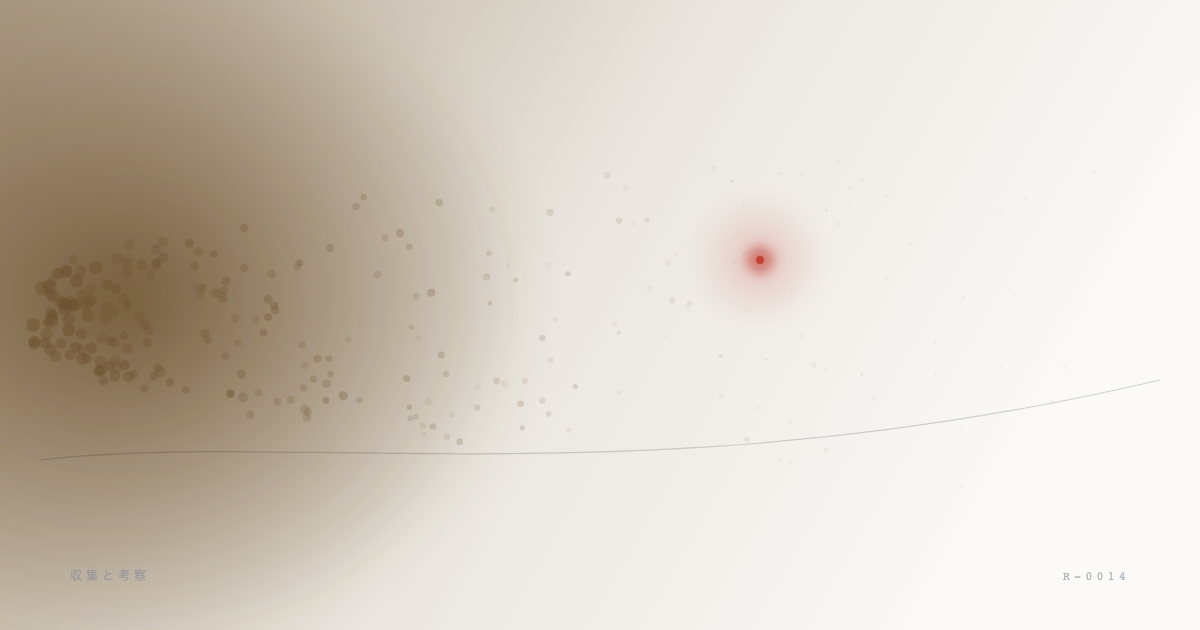
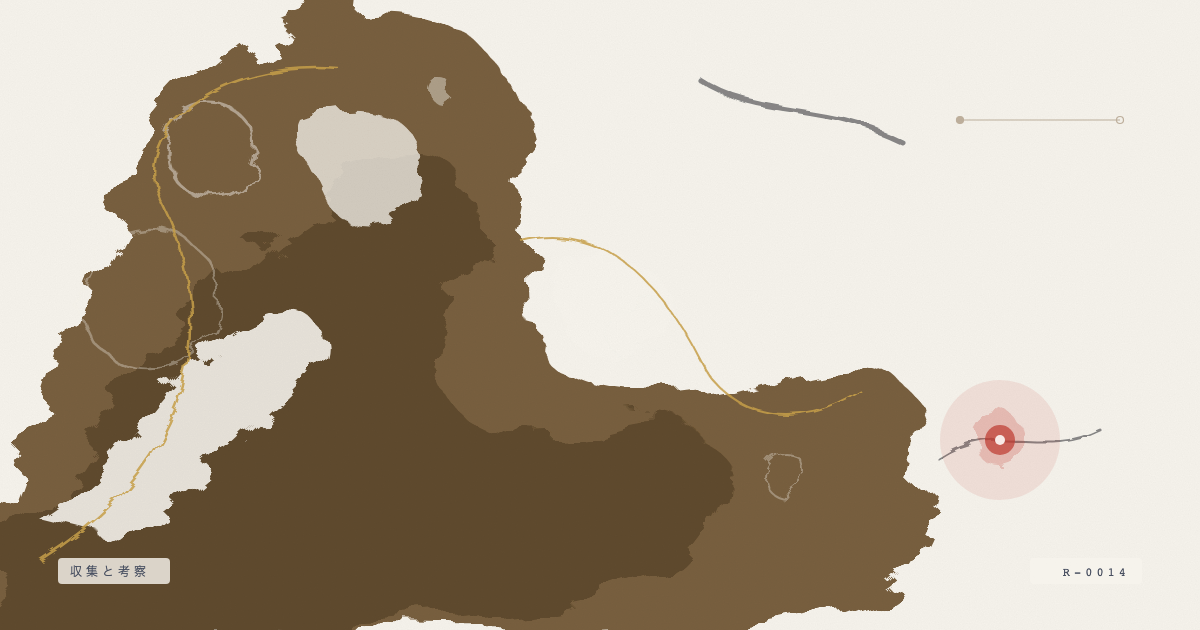
見出し画像をアクリルポアの質感に描き直し（自動生成のまま）

diff --git a/tools/og_image.py b/tools/og_image.py
@@ -2,15 +2,15 @@
 """
 記事の見出し画像
 
-写真ではなく、絵画的な抽象アートで記事のテーマを表す。
-密集した粒子の群れ（システム側の処理）が、左から右へ向かうにつれ
-散り、薄れていき、その先に小さな朱の光がひとつだけ灯っている
-（まだ渡されていない、決裁という一点）。図解ではなく、雰囲気で
-「AIの領域から、人間だけに委ねられた一点がある」ことを表す。
+写真ではなく、絵の具のマーブル（アクリルポア）のような抽象アートで
+記事のテーマを表す。濃淡の異なる色の流れが画面を覆い、白い抜け・
+気泡・金の脈が質感を作る。その中に、渡されていない決裁を表す
+小さな朱の光がひとつだけ灯る。静かな直線と円（テックの気配）を
+最小限だけ添える。タイトルの文字は入れない。
 
-タイトルの文字は入れない。pillar（構築記録／収集と考察）で
-色調（藍／焦茶）だけを切り替える。粒子の配置は固定シードの疑似乱数
-なので、同じ記事番号なら常に同じ絵になる。
+pillar（構築記録／収集と考察）によって色調だけを切り替える。
+構図そのものは全記事で共通（同じ様式の記録が積み重なっていく、
+という意図的な選択）。
 
 Playwrightで実際に描画してスクリーンショットし、1200x630のPNGにする。
 
@@ -20,75 +20,97 @@ Playwrightで実際に描画してスクリーンショットし、1200x630のPN
 import os, sys
 from playwright.sync_api import sync_playwright
 
-PILLAR_COLOR = {
-    "構築記録": "#2C4A6E",
-    "収集と考察": "#6E5330",
+# (メイン色, 濃色, テック線色) の3色セット
+PILLAR_PALETTE = {
+    "構築記録":   ("#2C4A6E", "#1A335A", "#4A6FA0"),
+    "収集と考察": ("#6E5330", "#4A3820", "#8A7050"),
 }
 
 TPL = """<!doctype html>
 <html><head><meta charset="utf-8"><style>
   *{{margin:0;padding:0}}
-  html,body{{width:1200px;height:630px;overflow:hidden;background:#FBFAF7}}
+  html,body{{width:1200px;height:630px;overflow:hidden;background:#F6F3EC}}
 </style></head>
 <body>
 <svg width="1200" height="630" viewBox="0 0 1200 630" xmlns="http://www.w3.org/2000/svg">
   <defs>
-    <filter id="soft" x="-50%" y="-50%" width="200%" height="200%">
-      <feGaussianBlur stdDeviation="18"/>
+    <filter id="marble" x="-30%" y="-30%" width="160%" height="160%">
+      <feTurbulence type="fractalNoise" baseFrequency="0.008 0.014" numOctaves="5" seed="{seed1}" result="n"/>
+      <feDisplacementMap in="SourceGraphic" in2="n" scale="90"/>
     </filter>
-    <filter id="soft2" x="-50%" y="-50%" width="200%" height="200%">
-      <feGaussianBlur stdDeviation="6"/>
+    <filter id="marble2" x="-30%" y="-30%" width="160%" height="160%">
+      <feTurbulence type="fractalNoise" baseFrequency="0.02 0.03" numOctaves="4" seed="{seed2}" result="n2"/>
+      <feDisplacementMap in="SourceGraphic" in2="n2" scale="34"/>
     </filter>
-    <radialGradient id="core" cx="50%" cy="50%" r="50%">
-      <stop offset="0%" stop-color="{color}" stop-opacity="0.9"/>
-      <stop offset="100%" stop-color="{color}" stop-opacity="0"/>
-    </radialGradient>
-    <linearGradient id="wash" x1="0" y1="0" x2="1" y2="0.3">
-      <stop offset="0%" stop-color="{color}" stop-opacity="0.55"/>
-      <stop offset="55%" stop-color="{color}" stop-opacity="0.12"/>
-      <stop offset="100%" stop-color="{color}" stop-opacity="0"/>
-    </linearGradient>
+    <filter id="stroke" x="-30%" y="-30%" width="160%" height="160%">
+      <feTurbulence type="fractalNoise" baseFrequency="0.015 0.05" numOctaves="3" seed="{seed3}" result="n3"/>
+      <feDisplacementMap in="SourceGraphic" in2="n3" scale="14"/>
+    </filter>
+    <filter id="grain">
+      <feTurbulence type="fractalNoise" baseFrequency="0.85" numOctaves="2" seed="5" result="g"/>
+      <feColorMatrix in="g" type="matrix" values="0 0 0 0 0  0 0 0 0 0  0 0 0 0 0  0 0 0 0.05 0"/>
+    </filter>
   </defs>
 
-  <rect width="1200" height="630" fill="#FBFAF7"/>
-  <rect width="1200" height="630" fill="url(#wash)"/>
-  <ellipse cx="120" cy="300" rx="420" ry="360" fill="url(#core)" filter="url(#soft)"/>
+  <rect width="1200" height="630" fill="#F6F3EC"/>
 
-  <!-- 粒子の群れ。密から疎へ、藍/焦茶から透明へ流れる -->
-  <g id="particles"></g>
+  <!-- 絵の具の大きな流れ。濃淡の異なる色を重ねてマーブル状にする -->
+  <g filter="url(#marble)">
+    <path d="M -50 630 C 80 380, 60 180, 260 40 C 420 -60, 560 60, 520 220
+             C 480 380, 620 440, 780 380 C 920 330, 980 440, 900 560
+             C 840 650, 500 640, 260 630 Z" fill="{main}" opacity="0.92"/>
+    <path d="M -50 630 C 120 460, 140 300, 320 190 C 460 110, 520 200, 460 300
+             C 400 400, 480 470, 620 430 C 720 400, 760 480, 680 560
+             C 600 630, 300 640, 40 630 Z" fill="{dark}" opacity="0.55"/>
+  </g>
 
-  <!-- 朱。まだ渡されていない、決裁という一点 -->
-  <circle cx="760" cy="260" r="46" fill="#C0392F" opacity="0.16" filter="url(#soft)"/>
-  <circle cx="760" cy="260" r="14" fill="#C0392F" opacity="0.55" filter="url(#soft2)"/>
-  <circle cx="760" cy="260" r="4" fill="#C0392F" opacity="0.9"/>
+  <!-- 白い抜け（マーブルの割れ目） -->
+  <g filter="url(#marble2)" opacity="0.9">
+    <path d="M 40 520 C 140 460, 160 360, 260 320 C 320 296, 340 340, 300 380 C 250 430, 200 480, 120 540 Z" fill="#F6F3EC"/>
+    <path d="M 300 120 C 380 90, 440 130, 420 190 C 400 240, 340 240, 320 190 C 306 156, 290 140, 300 120 Z" fill="#F6F3EC" opacity="0.85"/>
+    <path d="M 560 260 C 640 240, 700 290, 660 340 C 630 376, 570 360, 560 320 C 554 296, 550 276, 560 260 Z" fill="#F6F3EC" opacity="0.7"/>
+  </g>
 
-  <!-- 筆で引いたような、水平を少し外れた一本の線 -->
-  <path d="M 40 460 C 300 430, 650 500, 1160 380" fill="none" stroke="#1A1D24" stroke-width="1.2" opacity="0.18"/>
+  <!-- 気泡（アクリルポアの質感） -->
+  <g filter="url(#marble2)" opacity="0.85">
+    <circle cx="210" cy="150" r="46" fill="none" stroke="#F6F3EC" stroke-width="3" opacity="0.55"/>
+    <circle cx="150" cy="300" r="70" fill="none" stroke="#F6F3EC" stroke-width="2.5" opacity="0.4"/>
+    <circle cx="640" cy="330" r="34" fill="none" stroke="#F6F3EC" stroke-width="2" opacity="0.5"/>
+    <circle cx="440" cy="90" r="12" fill="#F6F3EC" opacity="0.5"/>
+    <circle cx="780" cy="470" r="22" fill="none" stroke="#F6F3EC" stroke-width="2" opacity="0.4"/>
+  </g>
 
-  <text x="70" y="580" font-family="ui-monospace,monospace" font-size="12" letter-spacing="4" fill="#828A9A" opacity="0.6">{pillar}</text>
-  <text x="1130" y="580" font-family="ui-monospace,monospace" font-size="12" letter-spacing="4" fill="#828A9A" text-anchor="end" opacity="0.6">R-{rno}</text>
+  <!-- 金の脈 -->
+  <g filter="url(#stroke)" opacity="0.85">
+    <path d="M 40 560 C 200 460, 220 320, 160 200 C 130 130, 220 60, 340 70" fill="none" stroke="#C9A24B" stroke-width="2.5"/>
+    <path d="M 520 240 C 600 220, 660 280, 700 360 C 730 420, 800 430, 860 390" fill="none" stroke="#C9A24B" stroke-width="2"/>
+  </g>
 
-  <script>
-    const ns = "http://www.w3.org/2000/svg";
-    const g = document.getElementById("particles");
-    let seed = {seed};
-    function rnd() {{ seed = (seed * 9301 + 49297) % 233280; return seed / 233280; }}
-    for (let i = 0; i < 260; i++) {{
-      const t = rnd();
-      const x = 60 + t * t * 1050 + (rnd() - 0.5) * 60;
-      const spread = 60 + t * 320;
-      const y = 315 + (rnd() - 0.5) * spread;
-      const r = (1 - t) * 5 + 0.6 + rnd() * 1.5;
-      const op = Math.max(0.04, (1 - t) * 0.55 - rnd() * 0.15);
-      const c = document.createElementNS(ns, "circle");
-      c.setAttribute("cx", x.toFixed(1));
-      c.setAttribute("cy", y.toFixed(1));
-      c.setAttribute("r", r.toFixed(2));
-      c.setAttribute("fill", "{color}");
-      c.setAttribute("opacity", op.toFixed(3));
-      g.appendChild(c);
-    }}
-  </script>
+  <!-- 筆致 -->
+  <g filter="url(#stroke)" opacity="0.5">
+    <path d="M 700 80 C 760 120, 820 100, 900 140" fill="none" stroke="#1A1D24" stroke-width="5" stroke-linecap="round"/>
+    <path d="M 940 460 C 1000 420, 1040 460, 1100 430" fill="none" stroke="#1A1D24" stroke-width="3" stroke-linecap="round"/>
+  </g>
+
+  <!-- 静かな幾何学。テックの気配は最小限、絵の一部として -->
+  <g stroke="{wire}" stroke-width="1.2" opacity="0.5" fill="none">
+    <line x1="960" y1="120" x2="1120" y2="120"/>
+    <circle cx="960" cy="120" r="3.5" fill="{wire}"/>
+    <circle cx="1120" cy="120" r="3.5" fill="none"/>
+  </g>
+
+  <!-- 朱。渡されていない決裁の光 -->
+  <circle cx="1000" cy="440" r="60" fill="#C0392F" opacity="0.10"/>
+  <circle cx="1000" cy="440" r="26" fill="#C0392F" opacity="0.22" filter="url(#marble2)"/>
+  <circle cx="1000" cy="440" r="15" fill="#C0392F" opacity="0.7"/>
+  <circle cx="1000" cy="440" r="5" fill="#FBEDE9"/>
+
+  <rect width="1200" height="630" filter="url(#grain)" opacity="0.6"/>
+
+  <rect x="58" y="558" width="112" height="26" rx="4" fill="#F6F3EC" opacity="0.82"/>
+  <text x="70" y="576" font-family="ui-monospace,monospace" font-size="12" letter-spacing="4" fill="#4A5162">{pillar}</text>
+  <rect x="1030" y="558" width="112" height="26" rx="4" fill="#F6F3EC" opacity="0.82"/>
+  <text x="1130" y="576" font-family="ui-monospace,monospace" font-size="12" letter-spacing="4" fill="#4A5162" text-anchor="end">R-{rno}</text>
 </svg>
 </body></html>
 """
@@ -96,10 +118,13 @@ TPL = """<!doctype html>
 
 def make(no: str, title: str, pillar: str, rinji: str = "", out_dir: str = "articles/og") -> str:
     """title は互換のため受け取るが、画像には焼き込まない（純粋にビジュアルのみ）。"""
-    color = PILLAR_COLOR.get(pillar, PILLAR_COLOR["構築記録"])
+    main, dark, wire = PILLAR_PALETTE.get(pillar, PILLAR_PALETTE["構築記録"])
     rno = (rinji or no).replace("R-", "").zfill(4)
-    seed = int(rno) * 97 + 42  # 記事ごとに粒子の配置を変える固定シード
-    html = TPL.format(color=color, pillar=pillar, rno=rno, seed=seed)
+    base = int(rno)
+    html = TPL.format(
+        main=main, dark=dark, wire=wire, pillar=pillar, rno=rno,
+        seed1=11 + base % 50, seed2=33 + base % 40, seed3=18 + base % 30,
+    )
 
     os.makedirs(out_dir, exist_ok=True)
     out_path = os.path.join(out_dir, f"{no}.png")
@@ -108,7 +133,6 @@ def make(no: str, title: str, pillar: str, rinji: str = "", out_dir: str = "arti
         browser = p.chromium.launch()
         page = browser.new_page(viewport={"width": 1200, "height": 630})
         page.set_content(html)
-        page.wait_for_timeout(150)
         page.screenshot(path=out_path)
         browser.close()
 
